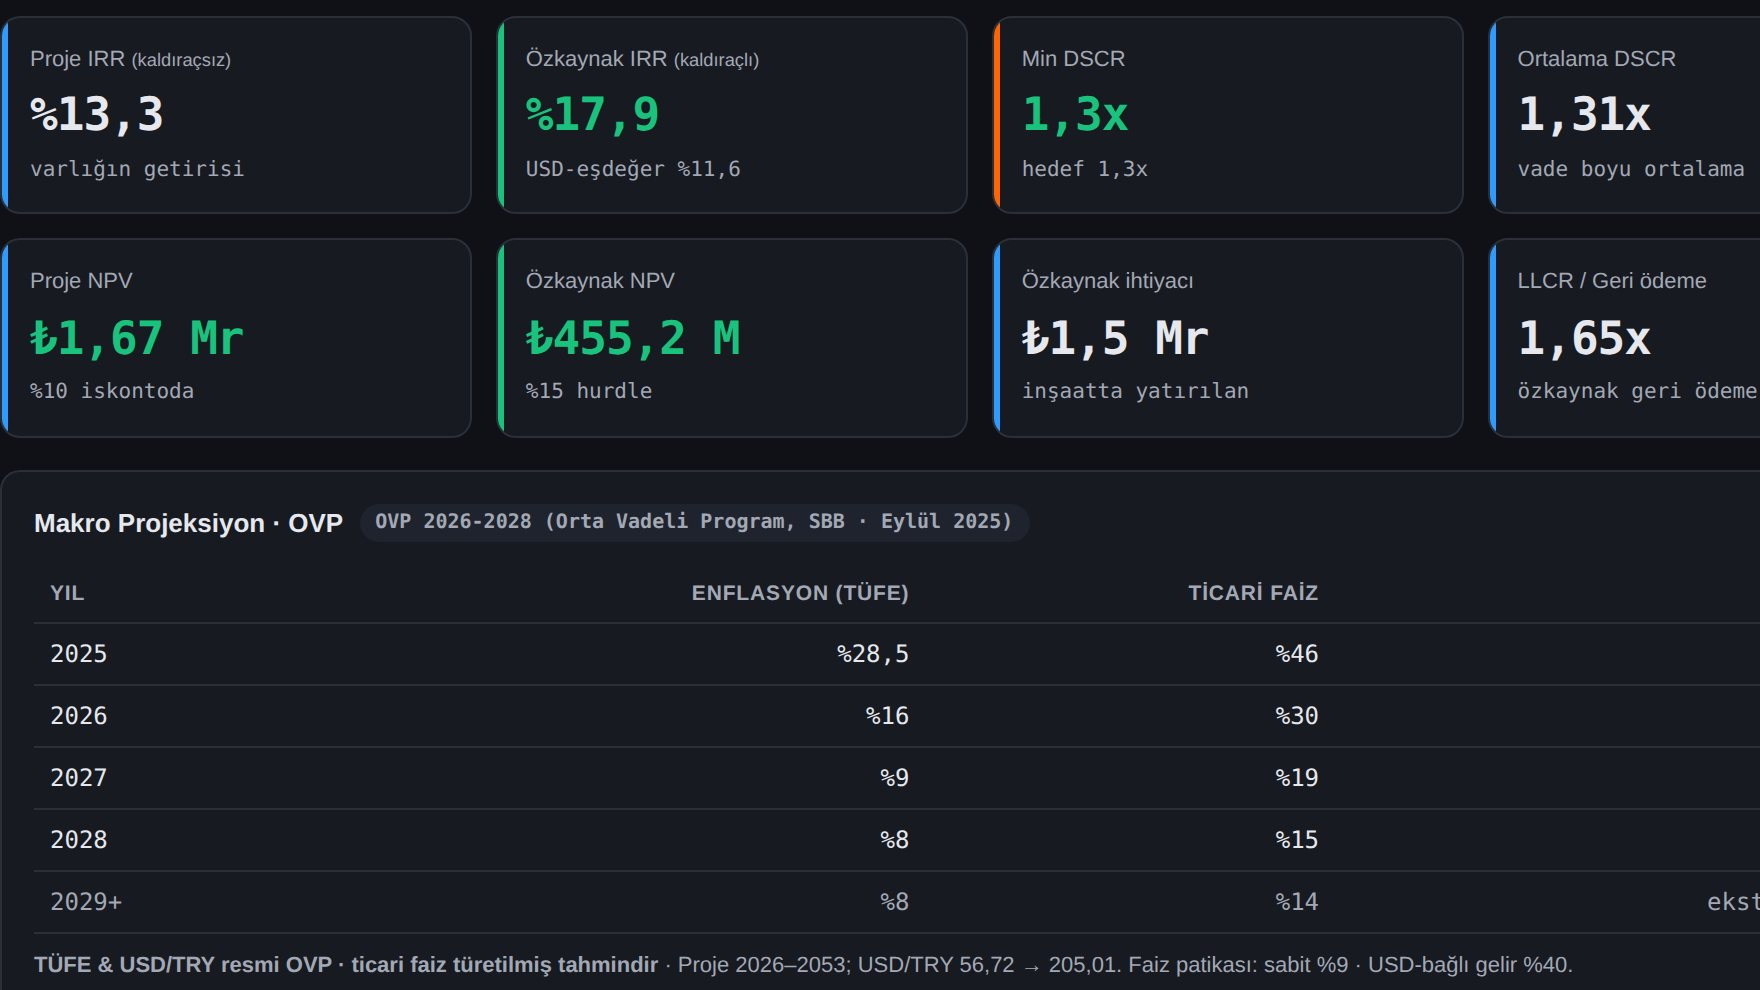
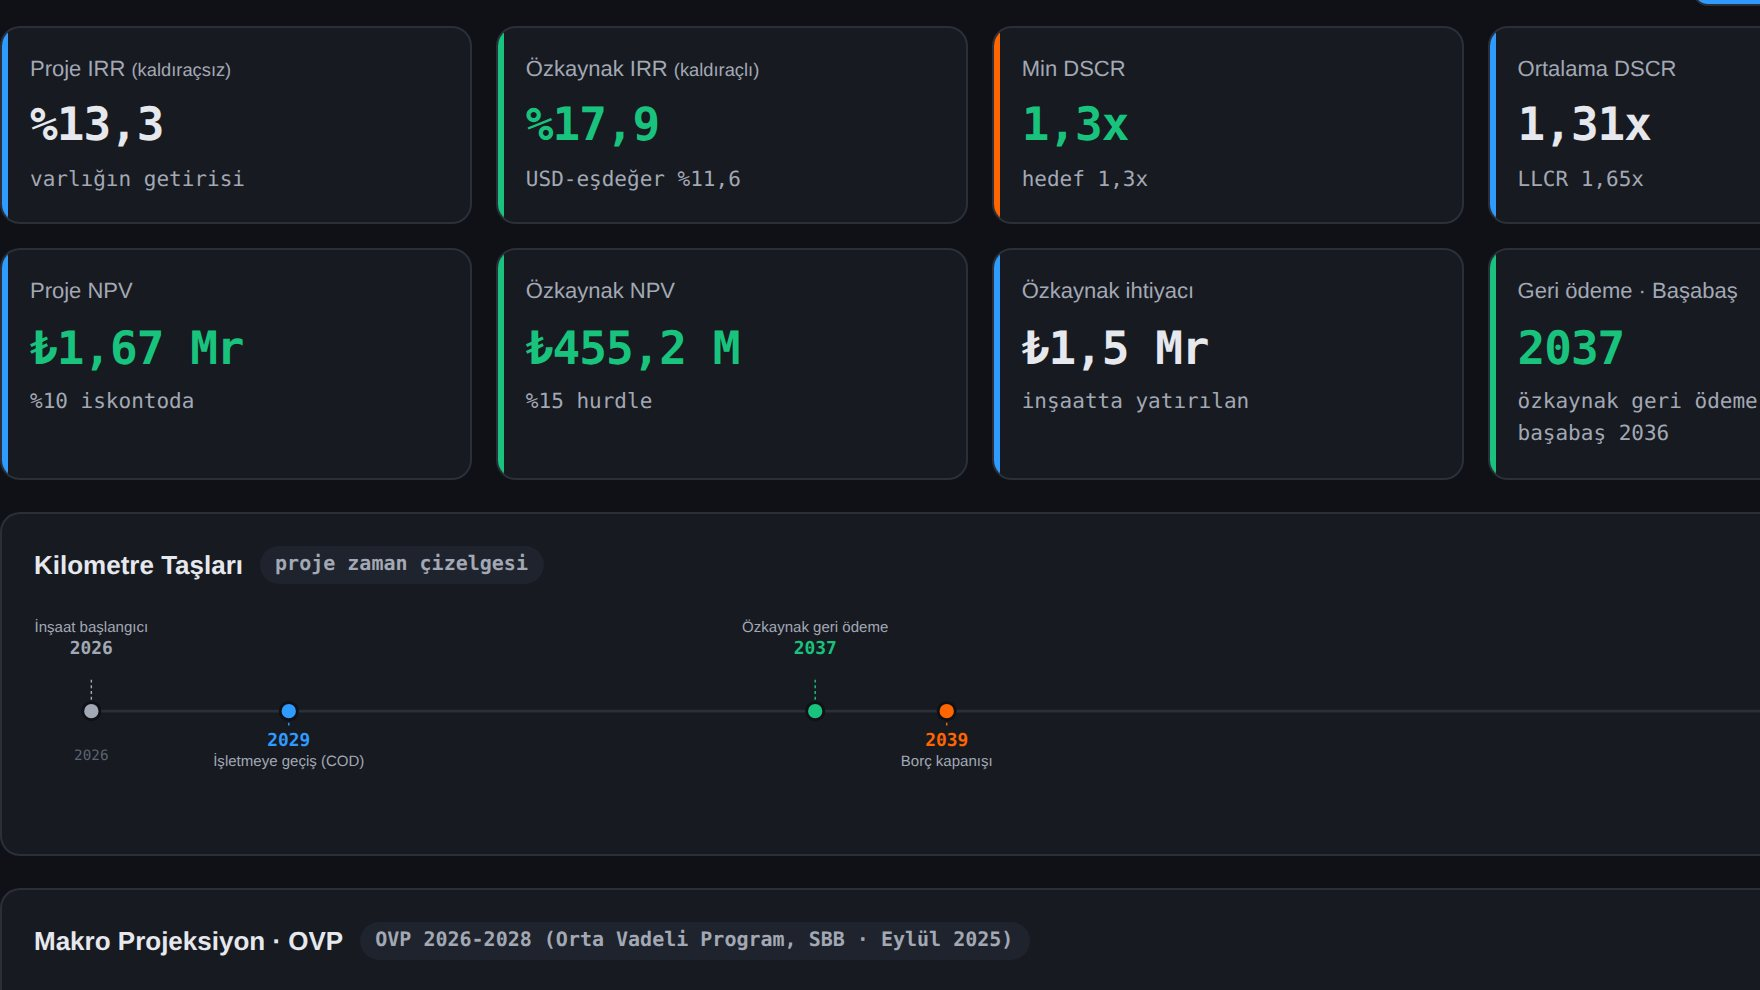
ProjeFin: add ₺/USD toggle, calendar years, milestones, payback/breakeven
- Currency toggle (₺/USD): money displays convert at the per-year OVP
  USD/TRY across KPIs, sources & uses and the cash-flow table; NPV converts
  at the spot (year-1) rate rather than re-discounting.
- Charts now label calendar years (DSCR profile + equity J-curve), and the
  J-curve marks the equity-payback year.
- New KPI shows equity payback year and project breakeven year; LLCR moves
  to the average-DSCR card subline.
- New "Kilometre Taşları" milestone timeline: construction start, COD,
  equity payback, debt close and end of concession.

Claude-Session: https://claude.ai/code/session_01Hyw628KC6s6w57U5EdwUWH

diff --git a/project-finance.html b/project-finance.html
@@ -47,6 +47,10 @@ a{color:var(--primary);text-decoration:none}
 .f .suf{position:absolute;right:9px;top:50%;transform:translateY(-50%);font-family:var(--mono);font-size:11px;color:var(--muted);pointer-events:none}
 .f input.has-suf{padding-right:26px}
 .f input.has-suf-yil{padding-right:34px}
+/* currency toggle */
+.curtog{display:inline-flex;border:1px solid var(--line);border-radius:8px;overflow:hidden}
+.curtog button{background:var(--panel);color:var(--muted);border:0;padding:6px 14px;font-size:12.5px;font-weight:600;font-family:var(--mono);cursor:pointer}
+.curtog button.on{background:var(--primary);color:#fff}
 /* KPI cards */
 .kpis{display:grid;grid-template-columns:repeat(4,1fr);gap:12px;margin-bottom:16px}
 .kpi{background:var(--panel);border:1px solid var(--line);border-radius:10px;padding:13px 14px;position:relative;overflow:hidden}
@@ -157,15 +161,23 @@ td.dscr-bad{color:var(--red);font-weight:600} td.dscr-ok{color:var(--green)}
 
   <!-- ===== RESULTS ===== -->
   <div class="right">
+    <div style="display:flex;justify-content:flex-end;margin-bottom:10px">
+      <div class="curtog"><button id="cur-try" type="button" class="on">₺ TRY</button><button id="cur-usd" type="button">$ USD</button></div>
+    </div>
     <div class="kpis">
       <div class="kpi"><div class="k-l">Proje IRR <small>(kaldıraçsız)</small></div><div class="k-v" id="k-pirr">—</div><div class="k-d" id="k-pirr-d">varlığın getirisi</div></div>
       <div class="kpi k-eq"><div class="k-l">Özkaynak IRR <small>(kaldıraçlı)</small></div><div class="k-v green" id="k-eirr">—</div><div class="k-d" id="k-eirr-d">sponsor getirisi</div></div>
       <div class="kpi k-dscr"><div class="k-l">Min DSCR</div><div class="k-v orange" id="k-dscr">—</div><div class="k-d" id="k-dscr-d">borç servisi karşılama</div></div>
-      <div class="kpi"><div class="k-l">Ortalama DSCR</div><div class="k-v" id="k-adscr">—</div><div class="k-d">vade boyu ortalama</div></div>
+      <div class="kpi"><div class="k-l">Ortalama DSCR</div><div class="k-v" id="k-adscr">—</div><div class="k-d" id="k-adscr-d">vade boyu ortalama</div></div>
       <div class="kpi"><div class="k-l">Proje NPV</div><div class="k-v" id="k-pnpv">—</div><div class="k-d" id="k-pnpv-d">proje iskontosunda</div></div>
       <div class="kpi k-eq"><div class="k-l">Özkaynak NPV</div><div class="k-v" id="k-enpv">—</div><div class="k-d" id="k-enpv-d">hurdle oranında</div></div>
-      <div class="kpi"><div class="k-l">Özkaynak ihtiyacı</div><div class="k-v" id="k-eq">—</div><div class="k-d">inşaatta yatırılan</div></div>
-      <div class="kpi"><div class="k-l">LLCR / Geri ödeme</div><div class="k-v" id="k-llcr">—</div><div class="k-d" id="k-pay-d">kredi ömrü kapsamı</div></div>
+      <div class="kpi"><div class="k-l">Özkaynak ihtiyacı</div><div class="k-v" id="k-eq">—</div><div class="k-d" id="k-eq-d">inşaatta yatırılan</div></div>
+      <div class="kpi k-eq"><div class="k-l">Geri ödeme · Başabaş</div><div class="k-v green" id="k-pay">—</div><div class="k-d" id="k-pay-d">özkaynak / proje</div></div>
+    </div>
+
+    <div class="card">
+      <h2>Kilometre Taşları <span class="tag">proje zaman çizelgesi</span></h2>
+      <div id="chart-milestones"></div>
     </div>
 
     <div class="card">
@@ -241,6 +253,14 @@ function shortM(v){const a=Math.abs(v),s=v<0?'−':'';
   if(a>=1e3)return s+'₺'+trN.format(a/1e3)+' B';
   return s+'₺'+trN.format(a);}
 const pct=v=>'%'+trN1.format(v);
+function shortUSD(v){const a=Math.abs(v),s=v<0?'−':'';
+  if(a>=1e9)return s+'$'+trN2.format(a/1e9)+' bn';
+  if(a>=1e6)return s+'$'+trN1.format(a/1e6)+' mn';
+  if(a>=1e3)return s+'$'+trN.format(a/1e3)+' k';
+  return s+'$'+trN.format(a);}
+let CUR='TRY';                                   // ₺ / USD görünüm
+// ₺ tutarı, o yılın USD/TRY'siyle USD'ye çevirerek biçimle (fx verilmezse fxFb)
+function M(vTRY, fx){ return CUR==='USD' ? shortUSD(vTRY/((fx||0)>0?fx:1)) : shortM(vTRY); }
 
 const PRESETS={
   toll:{name:'Otoyol Projesi',capex:5000000000,constr:3,opyears:25,tv:15,gearing:70,debtRate:9,tenor:15,repay:'sculpt',dscr:1.30,startYear:2026,rateMode:'fixed',fxRevPct:40,rev0:900000000,ramp:70,esc:6,opexPct:22,maintPct:4,tax:25,depYears:20,disc:10,discE:15},
@@ -360,18 +380,29 @@ function compute(s){
   last.projCF+=tv;
   last.eqCF+=Math.max(0,tv-residDebt);
   last.tv=tv; last.residDebt=residDebt;
-  // IRR / NPV (₺) + USD-eşdeğer özkaynak getirisi
+  // IRR / NPV (₺) + USD-eşdeğer
+  const fxOf=r=> haveMacro? r.fx : 1;
   const projCFs=rows.map(r=>r.projCF), eqCFs=rows.map(r=>r.eqCF);
-  const eqCFsUSD=rows.map(r=>r.eqCF/(haveMacro?r.fx:1));
+  const eqCFsUSD=rows.map(r=>r.eqCF/fxOf(r));
   const pIRR=irr(projCFs), eIRR=irr(eqCFs), eIRRusd=haveMacro?irr(eqCFsUSD):null;
   const pNPV=npv(projCFs,s.disc/100), eNPV=npv(eqCFs,s.discE/100);
+  // NPV bir bugünkü değerdir → spot (1. yıl) kurla USD'ye çevrilir (yeniden iskonto edilmez)
+  const fx0=fxAt(1);
+  const pNPVusd=haveMacro?pNPV/fx0:pNPV, eNPVusd=haveMacro?eNPV/fx0:eNPV;
   const llcr= debtCOD>0? pvCFADS/debtCOD : null;
-  // özkaynak geri ödeme yılı (kümülatif eqCF > 0)
-  let cum=0, payback=null;
-  for(let i=0;i<eqCFs.length;i++){ cum+=eqCFs[i]; if(payback===null && cum>=0) payback=i+1; }
-  return {C,O,rows,capex,idcTot,debtCOD,debtDrawn,equityTot,gear,haveMacro,fxRev,rateMode:s.rateMode,
+  // USD toplamları (her yıl kendi USD/TRY ile)
+  let capexUSD=0,idcUSD=0,equityUSD=0,debtCODusd=0;
+  rows.forEach(r=>{ if(r.phase==='İnşaat'){ const fx=fxOf(r), drawY=-r.projCF, dE=-r.eqCF;
+    capexUSD+=drawY/fx; idcUSD+=r.interest/fx; equityUSD+=dE/fx; debtCODusd+=(drawY-dE+r.interest)/fx; }});
+  // geri ödeme (özkaynak) ve başabaş (proje) yılları — kümülatif nakit ≥ 0
+  const startY=Math.round(s.startYear);
+  let cumE=0, ePayPy=null; for(let i=0;i<eqCFs.length;i++){ cumE+=eqCFs[i]; if(ePayPy===null&&cumE>=0) ePayPy=i+1; }
+  let cumP=0, pBePy=null; for(let i=0;i<projCFs.length;i++){ cumP+=projCFs[i]; if(pBePy===null&&cumP>=0) pBePy=i+1; }
+  return {C,O,N,rows,capex,idcTot,debtCOD,debtDrawn,equityTot,gear,haveMacro,fxRev,rateMode:s.rateMode,startY,
           minDSCR:isFinite(minDSCR)?minDSCR:null, avgDSCR:nDSCR?sumDSCR/nDSCR:null,
-          pIRR,eIRR,eIRRusd,pNPV,eNPV,llcr,payback,tgtD,repay:s.repay,residDebt,tv,
+          pIRR,eIRR,eIRRusd,pNPV,eNPV,pNPVusd,eNPVusd,llcr,tgtD,repay:s.repay,residDebt,tv,
+          capexUSD,idcUSD,equityTotUSD:equityUSD,debtCODusd, usesUSD:capexUSD+idcUSD, sourcesUSD:debtCODusd+equityUSD,
+          payback:ePayPy, ePayPy, pBePy, eqPaybackCal:ePayPy!=null?startY+ePayPy-1:null, projBreakevenCal:pBePy!=null?startY+pBePy-1:null,
           fxStart:fxAt(C+1), fxEnd:fxAt(N),
           uses:capex+idcTot, sources:debtCOD+equityTot};
 }
@@ -389,7 +420,7 @@ function dscrChart(rows,target){
     const x=padL+i*gap+(gap-bw)/2, y=yOf(o.dscr), h=padT+iH-y;
     const col=o.dscr<target?'#E5484D':(o.dscr<target*1.05?'#FF6500':'#19C37D');
     g+='<rect x="'+x.toFixed(1)+'" y="'+y.toFixed(1)+'" width="'+bw.toFixed(1)+'" height="'+Math.max(1,h).toFixed(1)+'" fill="'+col+'" rx="2"/>';
-    if(i%Math.ceil(n/14)===0||n<=16) g+='<text x="'+(x+bw/2).toFixed(1)+'" y="'+(H-10)+'" text-anchor="middle" font-family="IBM Plex Mono,monospace" font-size="10" fill="#A3A8B5">'+o.year+'</text>';
+    if(i%Math.ceil(n/14)===0||n<=16) g+='<text x="'+(x+bw/2).toFixed(1)+'" y="'+(H-10)+'" text-anchor="middle" font-family="IBM Plex Mono,monospace" font-size="10" fill="#A3A8B5">'+o.cal+'</text>';
   });
   const ty=yOf(target);
   g+='<line x1="'+padL+'" y1="'+ty.toFixed(1)+'" x2="'+(W-padR)+'" y2="'+ty.toFixed(1)+'" stroke="#FF6500" stroke-width="1.4" stroke-dasharray="6 4"/>';
@@ -399,17 +430,25 @@ function dscrChart(rows,target){
   g+='<text x="'+padL+'" y="'+(oy-5).toFixed(1)+'" font-family="IBM Plex Mono,monospace" font-size="10" fill="#A3A8B5">1,0x · başabaş</text>';
   return '<svg viewBox="0 0 '+W+' '+H+'" style="width:100%;height:auto">'+g+'</svg>';
 }
-function jCurve(rows){
+function jCurve(rows,startY,ePayPy){
+  const usd=CUR==='USD';
+  const val=r=> usd? r.eqCF/((r.fx||0)>0?r.fx:1) : r.eqCF;
+  const fmt=v=> usd? shortUSD(v) : shortM(v);
   const pts=[0]; let cum=0;
-  rows.forEach(r=>{cum+=r.eqCF; pts.push(cum);});
-  const n=pts.length, W=1320,H=260,padL=58,padR=20,padT=22,padB=28,iW=W-padL-padR,iH=H-padT-padB;
+  rows.forEach(r=>{cum+=val(r); pts.push(cum);});
+  const n=pts.length, W=1320,H=260,padL=64,padR=20,padT=22,padB=28,iW=W-padL-padR,iH=H-padT-padB;
   let mn=Math.min(...pts), mx=Math.max(...pts); if(mn>0)mn=0; if(mx<0)mx=0;
   const pad=(mx-mn)*0.1||1; mn-=pad; mx+=pad;
   const xOf=i=>padL+(i/(n-1))*iW, yOf=v=>padT+iH-((v-mn)/(mx-mn))*iH, zY=yOf(0);
+  const calOf=i=> startY+i-1; // pts[i] = i. yıl sonu (i>=1)
   let g='';
   g+='<line x1="'+padL+'" y1="'+zY.toFixed(1)+'" x2="'+(W-padR)+'" y2="'+zY.toFixed(1)+'" stroke="#5B6472" stroke-width="1" stroke-dasharray="4 4"/>';
   g+='<text x="'+(padL-6)+'" y="'+(zY+3).toFixed(1)+'" text-anchor="end" font-family="IBM Plex Mono,monospace" font-size="10" fill="#A3A8B5">0</text>';
-  // segments colored by sign
+  // geri ödeme (özkaynak) işaretçisi
+  if(ePayPy!=null){ const xp=xOf(ePayPy);
+    g+='<line x1="'+xp.toFixed(1)+'" y1="'+padT+'" x2="'+xp.toFixed(1)+'" y2="'+(H-padB).toFixed(1)+'" stroke="#19C37D" stroke-width="1.3" stroke-dasharray="5 4"/>';
+    g+='<text x="'+(xp+5).toFixed(1)+'" y="'+(padT+12)+'" font-family="IBM Plex Mono,monospace" font-size="11" font-weight="600" fill="#19C37D">▲ geri ödeme '+(startY+ePayPy-1)+'</text>';
+  }
   for(let i=0;i<n-1;i++){
     const a=pts[i],b=pts[i+1],xa=xOf(i),xb=xOf(i+1);
     if((a>=0)===(b>=0)){
@@ -420,14 +459,31 @@ function jCurve(rows){
       g+='<path d="M '+xc.toFixed(1)+' '+zY.toFixed(1)+' L '+xb.toFixed(1)+' '+yOf(b).toFixed(1)+'" fill="none" stroke="'+(b>=0?'#19C37D':'#E5484D')+'" stroke-width="2.6"/>';
     }
   }
-  // y labels (min, max)
-  g+='<text x="'+(padL-6)+'" y="'+(yOf(mx)+3).toFixed(1)+'" text-anchor="end" font-family="IBM Plex Mono,monospace" font-size="10" fill="#A3A8B5">'+shortM(mx)+'</text>';
-  g+='<text x="'+(padL-6)+'" y="'+(yOf(mn)+3).toFixed(1)+'" text-anchor="end" font-family="IBM Plex Mono,monospace" font-size="10" fill="#A3A8B5">'+shortM(mn)+'</text>';
+  g+='<text x="'+(padL-6)+'" y="'+(yOf(mx)+3).toFixed(1)+'" text-anchor="end" font-family="IBM Plex Mono,monospace" font-size="10" fill="#A3A8B5">'+fmt(mx)+'</text>';
+  g+='<text x="'+(padL-6)+'" y="'+(yOf(mn)+3).toFixed(1)+'" text-anchor="end" font-family="IBM Plex Mono,monospace" font-size="10" fill="#A3A8B5">'+fmt(mn)+'</text>';
   const endCol=pts[n-1]>=0?'#19C37D':'#E5484D';
   g+='<circle cx="'+xOf(n-1).toFixed(1)+'" cy="'+yOf(pts[n-1]).toFixed(1)+'" r="5" fill="'+endCol+'"/>';
-  g+='<text x="'+(xOf(n-1)-6).toFixed(1)+'" y="'+(yOf(pts[n-1])-12).toFixed(1)+'" text-anchor="end" font-family="IBM Plex Mono,monospace" font-size="15" font-weight="600" fill="'+endCol+'">'+shortM(pts[n-1])+'</text>';
-  g+='<text x="'+padL+'" y="'+(H-8)+'" font-family="IBM Plex Mono,monospace" font-size="10" fill="#A3A8B5">Yıl 0</text>';
-  g+='<text x="'+(W-padR).toFixed(1)+'" y="'+(H-8)+'" text-anchor="end" font-family="IBM Plex Mono,monospace" font-size="10" fill="#A3A8B5">Yıl '+(n-1)+'</text>';
+  g+='<text x="'+(xOf(n-1)-6).toFixed(1)+'" y="'+(yOf(pts[n-1])-12).toFixed(1)+'" text-anchor="end" font-family="IBM Plex Mono,monospace" font-size="15" font-weight="600" fill="'+endCol+'">'+fmt(pts[n-1])+'</text>';
+  // takvim yılı eksen etiketleri (~6 tık)
+  const step=Math.max(1,Math.round((n-1)/6));
+  for(let i=1;i<n;i+=step) g+='<text x="'+xOf(i).toFixed(1)+'" y="'+(H-8)+'" text-anchor="middle" font-family="IBM Plex Mono,monospace" font-size="10" fill="#A3A8B5">'+calOf(i)+'</text>';
+  g+='<text x="'+(W-padR).toFixed(1)+'" y="'+(H-8)+'" text-anchor="end" font-family="IBM Plex Mono,monospace" font-size="10" fill="#A3A8B5">'+calOf(n-1)+'</text>';
+  return '<svg viewBox="0 0 '+W+' '+H+'" style="width:100%;height:auto">'+g+'</svg>';
+}
+function milestones(items,y0,y1){
+  const W=1320,H=140,padL=40,padR=40,iW=W-padL-padR, axisY=72;
+  const span=Math.max(1,y1-y0), xOf=y=>padL+((y-y0)/span)*iW;
+  let g='';
+  g+='<line x1="'+padL+'" y1="'+axisY+'" x2="'+(W-padR)+'" y2="'+axisY+'" stroke="#2A2F3A" stroke-width="2"/>';
+  g+='<text x="'+padL+'" y="'+(axisY+34)+'" text-anchor="middle" font-family="IBM Plex Mono,monospace" font-size="10" fill="#5B6472">'+y0+'</text>';
+  g+='<text x="'+(W-padR)+'" y="'+(axisY+34)+'" text-anchor="middle" font-family="IBM Plex Mono,monospace" font-size="10" fill="#5B6472">'+y1+'</text>';
+  items.filter(m=>m.year!=null).forEach((m,i)=>{
+    const x=xOf(m.year), up=i%2===0, yT=up?axisY-40:axisY+24;
+    g+='<line x1="'+x.toFixed(1)+'" y1="'+axisY+'" x2="'+x.toFixed(1)+'" y2="'+(up?yT+18:yT-12).toFixed(1)+'" stroke="'+m.color+'" stroke-width="1" stroke-dasharray="2 2"/>';
+    g+='<circle cx="'+x.toFixed(1)+'" cy="'+axisY+'" r="6" fill="'+m.color+'" stroke="#0F1117" stroke-width="2"/>';
+    g+='<text x="'+x.toFixed(1)+'" y="'+yT+'" text-anchor="middle" font-family="IBM Plex Mono,monospace" font-size="12.5" font-weight="600" fill="'+m.color+'">'+m.year+'</text>';
+    g+='<text x="'+x.toFixed(1)+'" y="'+(up?yT-15:yT+14)+'" text-anchor="middle" font-family="IBM Plex Sans,sans-serif" font-size="10.5" fill="#A3A8B5">'+m.label+'</text>';
+  });
   return '<svg viewBox="0 0 '+W+' '+H+'" style="width:100%;height:auto">'+g+'</svg>';
 }
 
@@ -442,16 +498,24 @@ function render(){
   $('k-dscr').className='k-v '+(r.minDSCR!=null&&r.minDSCR>=r.tgtD?'green':(r.minDSCR!=null&&r.minDSCR>=1?'orange':'red'));
   $('k-dscr-d').textContent = 'hedef '+trN2.format(r.tgtD)+'x';
   $('k-adscr').textContent = r.avgDSCR!=null?trN2.format(r.avgDSCR)+'x':'—';
-  $('k-pnpv').textContent = shortM(r.pNPV); $('k-pnpv').className='k-v '+(r.pNPV>=0?'green':'red');
-  $('k-pnpv-d').textContent='%'+trN1.format(s.disc)+' iskontoda';
-  $('k-enpv').textContent = shortM(r.eNPV); $('k-enpv').className='k-v '+(r.eNPV>=0?'green':'red');
-  $('k-enpv-d').textContent='%'+trN1.format(s.discE)+' hurdle';
-  $('k-eq').textContent = shortM(r.equityTot);
-  $('k-llcr').textContent = (r.llcr!=null?trN2.format(r.llcr)+'x':'—');
-  $('k-pay-d').textContent = r.payback!=null?('özkaynak geri ödeme: '+r.payback+'. yıl'):'geri ödeme: vade içinde değil';
+  $('k-adscr-d').textContent = r.llcr!=null?('LLCR '+trN2.format(r.llcr)+'x'):'vade boyu ortalama';
+  const isU=CUR==='USD';
+  $('k-pnpv').textContent = isU?shortUSD(r.pNPVusd):shortM(r.pNPV); $('k-pnpv').className='k-v '+(r.pNPV>=0?'green':'red');
+  $('k-pnpv-d').textContent='%'+trN1.format(s.disc)+' iskontoda'+(isU?' · USD-eşd.':'');
+  $('k-enpv').textContent = isU?shortUSD(r.eNPVusd):shortM(r.eNPV); $('k-enpv').className='k-v '+(r.eNPV>=0?'green':'red');
+  $('k-enpv-d').textContent='%'+trN1.format(s.discE)+' hurdle'+(isU?' · USD-eşd.':'');
+  $('k-eq').textContent = isU?shortUSD(r.equityTotUSD):shortM(r.equityTot);
+  $('k-eq-d').textContent = 'inşaatta yatırılan'+(isU?' (USD)':'');
+  $('k-pay').textContent = r.eqPaybackCal!=null? String(r.eqPaybackCal) : '—';
+  $('k-pay-d').textContent = (r.eqPaybackCal!=null?('özkaynak geri ödeme'):'vade içinde geri ödeme yok')
+    + (r.projBreakevenCal!=null?(' · proje başabaş '+r.projBreakevenCal):'');
   // Sources & Uses
-  $('u-capex').textContent=shortM(r.capex); $('u-idc').textContent=shortM(r.idcTot); $('u-tot').textContent=shortM(r.uses);
-  $('s-debt').textContent=shortM(r.debtCOD); $('s-eq').textContent=shortM(r.equityTot); $('s-tot').textContent=shortM(r.sources);
+  $('u-capex').textContent=isU?shortUSD(r.capexUSD):shortM(r.capex);
+  $('u-idc').textContent=isU?shortUSD(r.idcUSD):shortM(r.idcTot);
+  $('u-tot').textContent=isU?shortUSD(r.usesUSD):shortM(r.uses);
+  $('s-debt').textContent=isU?shortUSD(r.debtCODusd):shortM(r.debtCOD);
+  $('s-eq').textContent=isU?shortUSD(r.equityTotUSD):shortM(r.equityTot);
+  $('s-tot').textContent=isU?shortUSD(r.sourcesUSD):shortM(r.sources);
   const dShare=r.sources>0?r.debtCOD/r.sources*100:0;
   $('bar-debt').style.width=dShare.toFixed(1)+'%'; $('bar-eq').style.width=(100-dShare).toFixed(1)+'%';
   $('lg-debt').textContent='%'+trN.format(dShare); $('lg-eq').textContent='%'+trN.format(100-dShare);
@@ -473,29 +537,40 @@ function render(){
     $('ovp-body').innerHTML='<tr><td colspan="4" style="color:var(--muted)">OVP verisi yüklenmedi (ovp.json).</td></tr>';
     $('ovp-note').textContent='Makro projeksiyon devre dışı — sabit faiz ve ₺ gelir kullanılıyor.';
   }
+  // Kilometre taşları
+  const dc=r.rows.find(x=>x.phase==='İşletme'&&x.debtBal<=1);
+  const endY=r.startY+r.N-1;
+  const ms=[
+    {year:r.startY, label:'İnşaat başlangıcı', color:'#A3A8B5'},
+    {year:r.startY+r.C, label:'İşletmeye geçiş (COD)', color:'#2F9BFF'},
+    {year:r.eqPaybackCal, label:'Özkaynak geri ödeme', color:'#19C37D'},
+    {year:dc?dc.cal:null, label:'Borç kapanışı', color:'#FF6500'},
+    {year:endY, label:'İşletme sonu', color:'#7C5CFF'}
+  ].filter(m=>m.year!=null).sort((a,b)=>a.year-b.year);
+  $('chart-milestones').innerHTML=milestones(ms, r.startY, endY);
   // charts
   $('chart-dscr').innerHTML=dscrChart(r.rows,r.tgtD);
-  $('chart-jcurve').innerHTML=jCurve(r.rows);
+  $('chart-jcurve').innerHTML=jCurve(r.rows, r.startY, r.ePayPy);
   // table
   $('cf-body').innerHTML=r.rows.map(row=>{
     const isC=row.phase==='İnşaat';
     const dscrCell = row.dscr!=null
       ? '<td class="'+(row.dscr<r.tgtD?'dscr-bad':'dscr-ok')+'">'+trN2.format(row.dscr)+'x</td>'
       : '<td style="color:var(--muted)">—</td>';
-    const eq=row.eqCF;
+    const eq=row.eqCF, fx=row.fx;
     return '<tr class="'+(isC?'phase-c':'')+'">'
       +'<td>'+row.cal+'</td><td>'+row.phase+'</td>'
       +'<td>%'+trN1.format(row.rate*100)+'</td>'
       +'<td>'+(r.haveMacro?trN2.format(row.fx):'—')+'</td>'
-      +'<td>'+(row.rev?shortM(row.rev):'—')+'</td>'
-      +'<td>'+(row.ebitda?shortM(row.ebitda):'—')+'</td>'
-      +'<td>'+(row.interest?shortM(row.interest):'—')+'</td>'
-      +'<td>'+(row.tax?shortM(row.tax):'—')+'</td>'
-      +'<td>'+(row.ds?shortM(row.ds):'—')+'</td>'
-      +'<td>'+(row.cfads?shortM(row.cfads):'—')+'</td>'
+      +'<td>'+(row.rev?M(row.rev,fx):'—')+'</td>'
+      +'<td>'+(row.ebitda?M(row.ebitda,fx):'—')+'</td>'
+      +'<td>'+(row.interest?M(row.interest,fx):'—')+'</td>'
+      +'<td>'+(row.tax?M(row.tax,fx):'—')+'</td>'
+      +'<td>'+(row.ds?M(row.ds,fx):'—')+'</td>'
+      +'<td>'+(row.cfads?M(row.cfads,fx):'—')+'</td>'
       +dscrCell
-      +'<td>'+shortM(row.debtBal)+'</td>'
-      +'<td class="'+(eq<0?'neg':'')+'">'+shortM(eq)+'</td></tr>';
+      +'<td>'+M(row.debtBal,fx)+'</td>'
+      +'<td class="'+(eq<0?'neg':'')+'">'+M(eq,fx)+'</td></tr>';
   }).join('');
   // verdict
   const okDSCR=r.minDSCR!=null&&r.minDSCR>=r.tgtD-0.005;   // ekran 2 hane; hedefe yuvarlanan değerleri geçir
@@ -506,11 +581,13 @@ function render(){
   v.innerHTML='<div class="vh"><span class="badge">'+(ok?'Finanse edilebilir':'Dikkat')+'</span>'+s.name+'</div>'
     +'Proje IRR <b>'+(r.pIRR!=null?pct(r.pIRR*100):'—')+'</b> (kaldıraçsız), özkaynak IRR <b>'+(r.eIRR!=null?pct(r.eIRR*100):'—')+'</b> (%'+trN1.format(s.gearing)+' borç ile). '
     +'Min DSCR <b>'+(r.minDSCR!=null?trN2.format(r.minDSCR)+'x':'—')+'</b> / ortalama <b>'+(r.avgDSCR!=null?trN2.format(r.avgDSCR)+'x':'—')+'</b> (hedef '+trN2.format(r.tgtD)+'x · '+repayTxt+'). '
-    +'Toplam '+shortM(r.uses)+' yatırım, '+shortM(r.equityTot)+' özkaynakla finanse ediliyor; IDC '+shortM(r.idcTot)+'. '
+    +'Toplam '+(isU?shortUSD(r.usesUSD):shortM(r.uses))+' yatırım, '+(isU?shortUSD(r.equityTotUSD):shortM(r.equityTot))+' özkaynakla finanse ediliyor; IDC '+(isU?shortUSD(r.idcUSD):shortM(r.idcTot))+'. '
+    +(r.eqPaybackCal!=null?'<b>Özkaynak '+r.eqPaybackCal+'</b> yılında geri ödeniyor':'<b>Özkaynak vade içinde geri ödenmiyor</b>')
+    +(r.projBreakevenCal!=null?', proje <b>'+r.projBreakevenCal+'</b> yılında başabaşa ulaşıyor. ':'. ')
     +(okDSCR?'Borç servisi her yıl hedef kapsamı tutuyor. ':'<b>DSCR hedefin altına düşüyor</b> — borç oranını düşürün, vadeyi uzatın ya da geliri yeniden gözden geçirin. ')
     +(okIRR?'Özkaynak getirisi hurdle oranını aşıyor.':'<b>Özkaynak IRR hurdle oranının altında</b> — kaldıraç, gelir veya capex varsayımlarını test edin.')
     +(r.haveMacro?' <b>OVP makro:</b> USD/TRY '+trN2.format(r.fxStart)+'→'+trN2.format(r.fxEnd)+', gelirin %'+trN.format(r.fxRev*100)+'’i USD-bağlı. ₺ özkaynak IRR '+(r.eIRR!=null?pct(r.eIRR*100):'—')+', <b>USD-eşdeğer '+(r.eIRRusd!=null?pct(r.eIRRusd*100):'—')+'</b> — aradaki fark TRY değer kaybının getirdiği nominal şişkinliktir.':'')
-    +(r.residDebt>1?' <b>Not:</b> vade sonunda '+shortM(r.residDebt)+' bakiye borç kalıyor (balon); vade sonu değeri bunu kapatmak için kullanılıyor.':'');
+    +(r.residDebt>1?' <b>Not:</b> vade sonunda '+(isU?shortUSD(r.residDebt/r.fxEnd):shortM(r.residDebt))+' bakiye borç kalıyor (balon); vade sonu değeri bunu kapatmak için kullanılıyor.':'');
 }
 
 document.querySelectorAll('.preset').forEach(b=>b.addEventListener('click',()=>{
@@ -519,6 +596,10 @@ document.querySelectorAll('.preset').forEach(b=>b.addEventListener('click',()=>{
   render();
 }));
 IDS.forEach(k=>{ const el=$(k); if(el) el.addEventListener('input',render); });
+// para birimi ₺/USD geçişi
+function setCur(c){ CUR=c; $('cur-try').classList.toggle('on',c==='TRY'); $('cur-usd').classList.toggle('on',c==='USD'); render(); }
+$('cur-try').addEventListener('click',()=>setCur('TRY'));
+$('cur-usd').addEventListener('click',()=>setCur('USD'));
 document.querySelectorAll('input[type=number]').forEach(el=>{ el.setAttribute('autocomplete','off'); el.addEventListener('wheel',()=>el.blur(),{passive:true}); });
 // binlik ayraç
 function fmtNum(){ NUMF.forEach(k=>{ const el=$(k); if(el&&document.activeElement!==el){ const n=parseInt(String(el.value).replace(/\D/g,''))||0; el.value=n?trN.format(n):''; }}); }